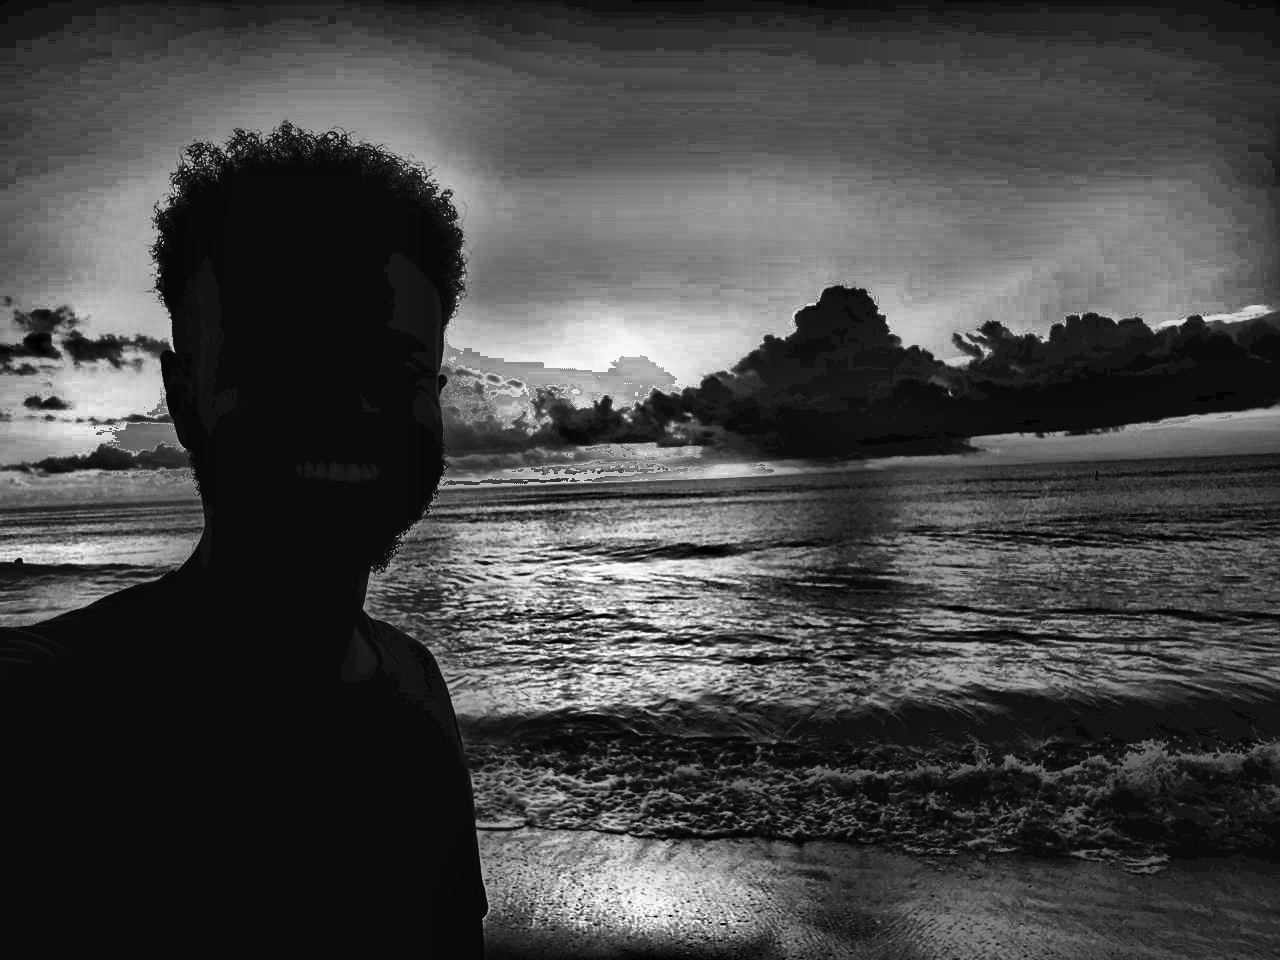
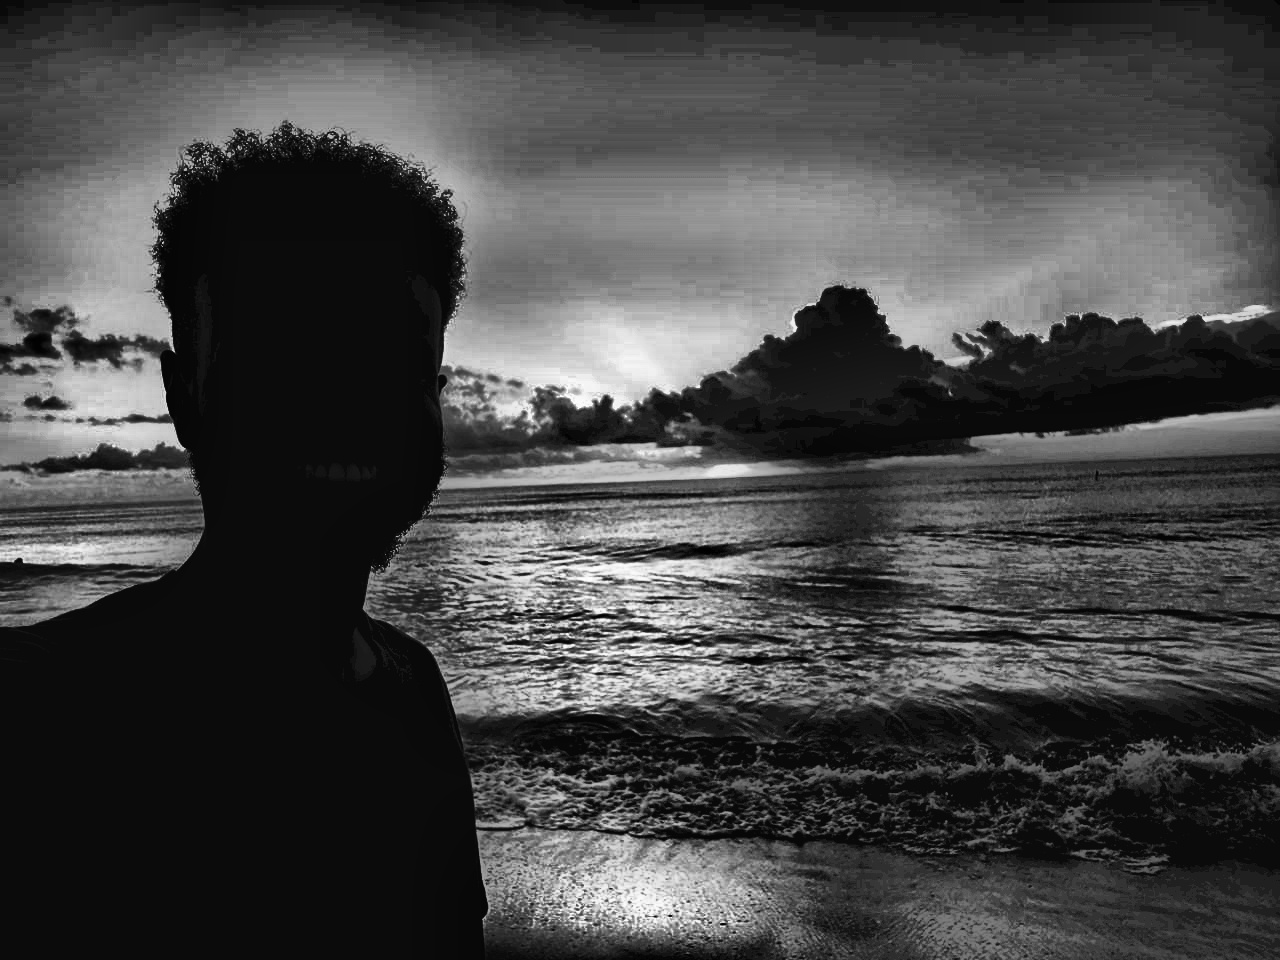
correct the normalzie and contrast sterch functions

diff --git a/src/basic_image_ops.py b/src/basic_image_ops.py
@@ -517,109 +517,22 @@ def normalize_image(img):
   
   img_copy = img.copy()
   
+  gray_img = img_copy.copy()
+  
+  if not is_gray(img_copy):
+    gray_img = to_grayscale(img_copy)
+    
+  normal_gray_img = cv.normalize(gray_img, None, alpha = 0, beta = 255, norm_type = cv.NORM_MINMAX)
+  
+  
+  normal_color_img = cv.cvtColor(normal_gray_img, cv.COLOR_GRAY2BGR)
+  
   if is_gray(img_copy):
-    max = 0 
-    min = 255
-    
-    row, column = img_copy.shape
-    
-    for i in range(row):
-      
-      for j in range(column):
-        if max < img_copy[i, j]: 
-          max = img_copy[i, j]
-        if min > img_copy[i, j]: 
-          min = img_copy[i, j]
-    
-    for i in range(row):
-      
-      for j in range(column):
-        img_copy[i, j] -= min
-        if not (max - min == 0):
-          img_copy[i, j] /= (max - min)
-        img_copy[i, j] += 255
-        
-        if img_copy[i, j] < 0: 
-          img_copy[i, j] = 0
-        elif img_copy[i, j] > 255: 
-          img_copy[i, j] = 255
-  
-  else:
-    blue = img_copy[..., 0]
-    green = img_copy[..., 1]
-    red = img_copy[..., 2]
-    
-    max = 0
-    min = 255
-    
-    row_b, column_b = blue.shape
-    row_g, column_g = green.shape
-    row_r, column_r = red.shape
-    
-    for i in range(row_b):
-      for j in range(column_b):
-        if max < blue[i, j]: 
-          max = blue[i, j]
-        if min > blue[i, j]: 
-          min = blue[i, j]
-        
-    for i in range(row_b):
-      for j in range(column_b):
-        blue[i, j] -= min
-        if not (max - min == 0):
-          blue[i, j] /= (max - min)
-        blue[i, j] += 255
-        
-        if blue[i, j] < 0: 
-          blue[i, j] = 0
-        elif blue[i, j] > 255: 
-          blue[i, j] = 255
-    
-    max = 0
-    min = 255
-          
-    for i in range(row_g):
-      for j in range(column_g):
-        if max < green[i, j]: 
-          max = green[i, j]
-        if min > green[i, j]: 
-          min = green[i, j]
-        
-    for i in range(row_g):
-      for j in range(column_g):
-        green[i, j] -= min
-        if not (max - min == 0):
-          green[i, j] /= (max - min)
-        green[i, j] += 255
-        
-        if green[i, j] < 0: 
-          green[i, j] = 0
-        elif green[i, j] > 255: 
-          green[i, j] = 255
+    return normal_gray_img
 
-    max = 0
-    min = 255
-    
-    for i in range(row_r):
-      for j in range(column_r):
-        if max < red[i, j]: 
-          max = red[i, j]
-        if min > red[i, j]: 
-          min = red[i, j]
-        
-    for i in range(row_r):
-      for j in range(column_r):
-        red[i, j] -= min
-        if not (max - min == 0):
-          red[i, j] /= (max - min)
-        red[i, j] += 255
-        
-        if red[i, j] < 0: 
-          red[i, j] = 0
-        elif red[i, j] > 255: 
-          red[i, j] = 255
-  
-  return img_copy
+  else:
+    return normal_color_img
+
   
 
 def contrast_stretch(img):
@@ -630,114 +543,25 @@ def contrast_stretch(img):
   
   :param img: input image (color or grayscale)
   '''
+  check_if_valid(img)
+  
   img_copy = img.copy()
   
-  max = 0
-  min = 255
+  gray_img = img_copy.copy()
+  
+  if not is_gray(img_copy):
+    gray_img = to_grayscale(img_copy)
+    
+  contrast_gray_img = cv.normalize(gray_img, None, alpha = 0, beta = 255, norm_type = cv.NORM_MINMAX)
+  
+  
+  contrast_color_img = cv.cvtColor(contrast_gray_img, cv.COLOR_GRAY2BGR)
   
   if is_gray(img_copy):
-    
-    row, column = img.shape
-    
-    for i in range(row):
-      for j in range(column):
-        if max < img_copy[i, j]:
-          max = img_copy[i, j]
-        if min > img_copy[i, j]:
-          min = img_copy[i, j]
-    
-    for i in range(row):
-      for j in range(column):
-        img_copy[i, j] -= min
-        if not (max - min == 0):
-          img_copy[i, j] /= (max - min)
-        img_copy[i, j] *= 255
-        
-        if img_copy[i, j] < 0:
-          img_copy[i, j] = 0
-        elif img_copy[i, j] > 255:
-          img_copy[i, j] = 255
-  
+    return contrast_gray_img
+
   else:
-    max = 0
-    min = 255
-    
-    blue = img_copy[..., 0]
-    green = img_copy[..., 1]
-    red = img_copy[..., 2]
-    
-    row_b, column_b = blue.shape
-    
-    for i in range(row_b):
-      for j in range(column_b):
-        if max < blue[i, j]:
-          max = blue[i, j]
-        if min > blue[i, j]:
-          min = blue[i, j]
-    
-    for i in range(row_b):
-      for j in range(column_b):
-        blue[i, j] -= min
-        if not (max - min == 0):
-          blue[i, j] /= (max - min)
-        blue[i, j] *= 255
-        
-        if blue[i, j] < 0:
-          blue[i, j] = 0
-        elif blue[i, j] > 255:
-          blue[i, j] = 255
-          
-    
-    max = 0
-    min = 255
-    
-    row_g, column_g = green.shape
-    
-    for i in range(row_g):
-      for j in range(column_g):
-        if max < green[i, j]:
-          max = green[i, j]
-        if min > green[i, j]:
-          min = green[i, j]
-    
-    for i in range(row_g):
-      for j in range(column_g):
-        green[i, j] -= min
-        if not (max - min == 0):
-          green[i, j] /= (max - min)
-        green[i, j] *= 255
-        
-        if green[i, j] < 0:
-          green[i, j] = 0
-        elif green[i, j] > 255:
-          green[i, j] = 255
-    
-    max = 0
-    min = 255
-    
-    row_r, column_r = red.shape
-    
-    for i in range(row_r):
-      for j in range(column_r):
-        if max < red[i, j]:
-          max = red[i, j]
-        if min > red[i, j]:
-          min = red[i, j]
-    
-    for i in range(row_r):
-      for j in range(column_r):
-        red[i, j] -= min
-        if not (max - min == 0):
-          red[i, j] /= (max - min)
-        red[i, j] *= 255
-        
-        if red[i, j] < 0:
-          red[i, j] = 0
-        elif red[i, j] > 255:
-          red[i, j] = 255
-    
-  
-  return img_copy
+    return contrast_color_img
 
 def histogram_equalization(img):
     '''

diff --git a/src/enhancement_pipeline.py b/src/enhancement_pipeline.py
@@ -32,25 +32,58 @@ def enhance_image (img, config):
         img_copy = adjust_gamma(img_copy, gamma_number)
         
     
+    print('\nBefore Brightness')
+    image_info(img_copy)
     img_copy = adjust_brightness(img_copy, bright_value)
 
+    print('\nAfter Brightness')
+    image_info(img_copy)
+    
+    print('\nBefore Contrast')
+    image_info(img_copy)
     img_copy = adjust_contrast(img_copy, contrast_value)
         
+    print('\nAfter Contrast')
+    image_info(img_copy)
     
     if clahe_value or equalize_value:
         img_copy = to_grayscale(img_copy)
     
     if clahe_value:
+        print('\nBefore Clahe')
+        image_info(img_copy)
+        
         img_copy = histogram_equalization_clahe_grayscale(img_copy)
         
+        print('\nAfter Clahe')
+        image_info(img_copy)
+        
     elif equalize_value:
+        print('\nBefore equalize')
+        image_info(img_copy)
+        
         img_copy = histogram_equalization(img_copy)
         
+        print('\nAfter equalize')
+        image_info(img_copy)
+        
     if norm_value:
+        print('\nBefore normalization')
+        image_info(img_copy)
+        
         img_copy = normalize_image(img_copy)
         
+        print('\nAfter normalization')
+        image_info(img_copy)
+        
     if stretch_value:
+        print('\nBefore contrast')
+        image_info(img_copy)
+        
         img_copy = contrast_stretch(img_copy)
+        
+        print('\nAfter contrast')
+        image_info(img_copy)
         
     if plot_hist:
         if is_gray(img_copy):
@@ -70,22 +103,26 @@ def main():
     img = load_image("/Users/matiyasdawit/Desktop/Computer_Vision_Project/cv-bootcamp/src/ex_photo.jpg")
     
     config = {
-        "brightness": 2,
+        "brightness": 0,
         "contrast": 0.7,
         "stretch": False,
-        "plot_histogram": False,
+        "plot_histogram": True,
         "normalize": True,
-        "equalize": False,
-        "clahe": False,
+        "equalize": True,
+        "clahe": True,
         "gamma": False,
         "gamma_value": 5,
         "white_balance": False,
     }
     
+    print('\nBefore enhacmenent')
+    image_info(img)
+    
     new_image = enhance_image(img, config)
     
     save_image(new_image, "enhanced_new_photo.jpg")
     
+    print('\nAfter enhacmenent')
     image_info(new_image)
     
     
